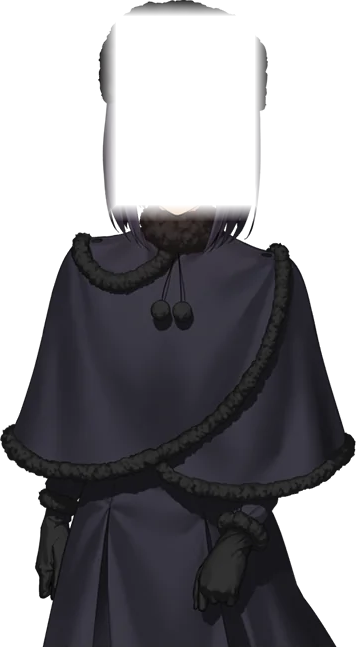
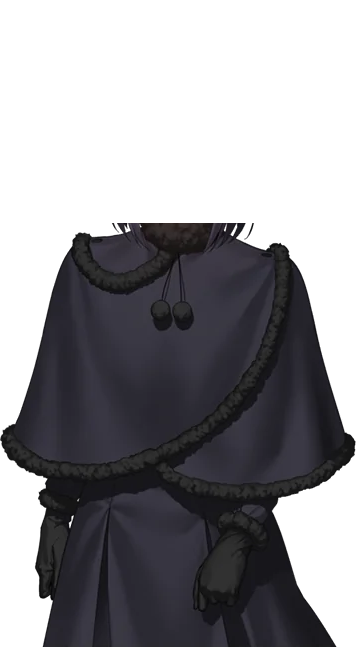
fix: 彻底清除歪头旧位置残影

Changed region(s): [[0.2781, 0.0309, 0.7725, 0.3709], [0.3708, 0.0, 0.6489, 0.0309]]

diff --git a/src/main.js b/src/main.js
@@ -451,6 +451,25 @@ function createWindow() {
             const petHeadRig = document.querySelector('.gaia-pet-head-rig');
             const blinkFace = document.querySelector('.gaia-pet-blink-face');
             const layeredPet = !!petBodyLayer && petBodyLayer.src.endsWith('/parts/body.png') && !!petHeadLayer && petHeadLayer.src.endsWith('/parts/head.png') && !!petHeadRig && petHeadRig.offsetHeight > 0;
+            if (petBodyLayer && (!petBodyLayer.complete || !petBodyLayer.naturalWidth)) {
+              await new Promise((resolve) => {
+                petBodyLayer.addEventListener('load', resolve, { once: true });
+                petBodyLayer.addEventListener('error', resolve, { once: true });
+              });
+            }
+            let headCutoutClean = false;
+            if (petBodyLayer && petBodyLayer.naturalWidth) {
+              const cutoutCanvas = document.createElement('canvas');
+              cutoutCanvas.width = petBodyLayer.naturalWidth;
+              cutoutCanvas.height = petBodyLayer.naturalHeight;
+              const cutoutContext = cutoutCanvas.getContext('2d', { willReadFrequently: true });
+              cutoutContext.drawImage(petBodyLayer, 0, 0);
+              const cutoutPixels = cutoutContext.getImageData(88, 0, 180, 223).data;
+              headCutoutClean = true;
+              for (let i = 3; i < cutoutPixels.length; i += 4) {
+                if (cutoutPixels[i] !== 0) { headCutoutClean = false; break; }
+              }
+            }
             const oldLidRemoved = !document.querySelector('.gaia-pet-lid');
             GaiaPet.runEmotion('sleeping');
             await new Promise((resolve) => setTimeout(resolve, 80));
@@ -484,7 +503,7 @@ function createWindow() {
             GaiaPet.runAction('blink');
             const spriteBlinkStarted = !!blinkFace && blinkFace.classList.contains('blink');
             GaiaPet.closeConsole();
-            return { panelVisible, panelInViewport, emotionButtons, actionButtons, layeredPet, oldLidRemoved, sleeping, sleepExpression, sleepAnimation, sleepHeadPose, zzzVisible, firstClickOnlyWakes, awake, wakePerformance, sleepAnimationCleared, zzzHidden, actionStarted, actionCleared, breathingRestored, angryPerformanceStarted, angryExpressionMatched, angryPerformanceCleared, spriteBlinkStarted };
+            return { panelVisible, panelInViewport, emotionButtons, actionButtons, layeredPet, headCutoutClean, oldLidRemoved, sleeping, sleepExpression, sleepAnimation, sleepHeadPose, zzzVisible, firstClickOnlyWakes, awake, wakePerformance, sleepAnimationCleared, zzzHidden, actionStarted, actionCleared, breathingRestored, angryPerformanceStarted, angryExpressionMatched, angryPerformanceCleared, spriteBlinkStarted };
           })()`);
           debugOk =
             petStatus.panelVisible === true &&
@@ -492,6 +511,7 @@ function createWindow() {
             petStatus.emotionButtons === 8 &&
             petStatus.actionButtons === 6 &&
             petStatus.layeredPet === true &&
+            petStatus.headCutoutClean === true &&
             petStatus.oldLidRemoved === true &&
             petStatus.sleeping === true &&
             petStatus.sleepExpression === '安心' &&
@@ -542,6 +562,14 @@ function createWindow() {
         await mainWindow.webContents.executeJavaScript('window.__gaiaDebug.waitHome()');
         await wait(1700);
         await capture('home.png');
+        await mainWindow.webContents.executeJavaScript("GaiaPet.runAction('tilt')");
+        await wait(260);
+        await capture('pet_tilt_early.png');
+        await wait(260);
+        await capture('pet_tilt_peak.png');
+        await wait(390);
+        await capture('pet_tilt_return.png');
+        await wait(270);
         await mainWindow.webContents.executeJavaScript("__gaiaDebug.showView('library')");
         await wait(900);
         await capture('bookshelf.png');

diff --git a/tests/pet.test.js b/tests/pet.test.js
@@ -162,6 +162,7 @@ test('渲染层包含分层专用动画、无黑线眨眼和动作收尾', () =>
   const renderer = fs.readFileSync(path.join(__dirname, '..', 'src', 'renderer', 'pet.js'), 'utf8');
   const css = fs.readFileSync(path.join(__dirname, '..', 'src', 'renderer', 'styles.css'), 'utf8');
   const app = fs.readFileSync(path.join(__dirname, '..', 'src', 'renderer', 'app.js'), 'utf8');
+  const main = fs.readFileSync(path.join(__dirname, '..', 'src', 'main.js'), 'utf8');
   assert.ok(renderer.includes("addEventListener('contextmenu', openConsole)"), '桌宠应支持右键打开控制台');
   assert.ok(renderer.includes('whenReady:'), '桌宠初始化应提供可等待的就绪状态');
   assert.ok(renderer.includes("key === 'sleeping'"), '控制台应能手动睡觉');
@@ -197,10 +198,13 @@ test('渲染层包含分层专用动画、无黑线眨眼和动作收尾', () =>
   assert.ok(css.includes('@keyframes pet-head-wake'), '缺少分层唤醒动画');
   assert.ok(!css.includes('.gaia-pet-lid'), '矩形眼皮样式应彻底移除');
   assert.ok(app.includes('window.GaiaPet.init().then(updatePetUI)'), '桌宠初始化后应同步设置开关文字');
+  assert.ok(main.includes('petStatus.headCutoutClean === true'), '冒烟测试应逐像素验证身体层没有旧头部残影');
 });
 
-test('头身分层羽化由外向内减淡，避免歪头后留下旧位置残影', () => {
+test('头身分层完整挖空头部活动区，仅在颈部保留窄幅重叠', () => {
   const script = fs.readFileSync(path.join(__dirname, '..', 'scripts', 'make-pet-head-parts.py'), 'utf8');
-  assert.ok(script.includes('int(a[y, x, 3]) * (pad - d) / (pad + 1)'), '身体挖空羽化方向错误或存在 uint8 乘法溢出');
-  assert.ok(!script.includes('(d + 1) / (pad + 1)'), '不应保留由内向外增强的不透明残影环');
+  assert.ok(script.includes('HEAD = (88, 0, 268, 235)'), '头部裁切应完整覆盖帽子、头发和颈部');
+  assert.ok(script.includes('BOTTOM_OVERLAP = 12'), '颈部只应保留窄幅接缝重叠');
+  assert.ok(script.includes('a[y0:min(y1 - BOTTOM_OVERLAP, H), x0:min(x1, W), 3] = 0'), '身体层的头部活动区域必须完全透明');
+  assert.ok(!script.includes('d = min('), '不应在旧头部四周保留残影羽化环');
 });

diff --git a/tests/app-smoke.test.js b/tests/app-smoke.test.js
@@ -10,11 +10,15 @@ const root = path.join(__dirname, '..');
 test('项目关键文件齐全', () => {
   const pkg = JSON.parse(fs.readFileSync(path.join(root, 'package.json'), 'utf8'));
   assert.ok(fs.existsSync(path.join(root, pkg.main)), '主进程入口缺失');
+  const main = fs.readFileSync(path.join(root, pkg.main), 'utf8');
   assert.ok(pkg.scripts.start, '缺少 start 脚本');
   assert.ok(pkg.scripts.test, '缺少 test 脚本');
   assert.ok(pkg.scripts.smoke, '缺少 smoke 脚本');
   assert.ok(pkg.scripts['smoke:open'], '缺少 smoke:open 脚本');
   assert.ok(pkg.scripts.shot, '缺少 shot 截图脚本');
+  for (const frame of ['pet_tilt_early.png', 'pet_tilt_peak.png', 'pet_tilt_return.png']) {
+    assert.ok(main.includes(`capture('${frame}')`), `截图验收缺少歪头动作帧 ${frame}`);
+  }
   for (const f of [
     'src/preload.js',
     'src/shared/bookmarks.js',

diff --git a/src/renderer/pet.js b/src/renderer/pet.js
@@ -49,7 +49,7 @@
     tile: { w: 134, h: 118, cx: 67.5, cy: 59.5 },
     sheet: { w: 356, h: 647 },
   };
-  const HEAD = { x: 100, y: 0, w: 170, h: 220 };
+  const HEAD = { x: 88, y: 0, w: 180, h: 235 };
   const ACTION_CLASSES = ['poke', 'drop', 'perk', 'recoil', 'shiver', 'stretch', 'lean', 'drowse', 'wake'];
   const PERFORMANCE_CLASSES = ['performance-tilt', 'performance-thinking', 'performance-peek', 'performance-listen', 'performance-shy', 'performance-angry', 'performance-bored', 'performance-drowse', 'performance-wake'];
   const ACTION_MS = { poke: 350, tilt: 1100, drop: 400, perk: 500, recoil: 360, shiver: 420, stretch: 820, lean: 600, drowse: 1100, wake: 900 };

diff --git a/src/renderer/styles.css b/src/renderer/styles.css
@@ -333,7 +333,7 @@ body.eye {
   top: 0;
   width: 100%;
   pointer-events: none;
-  transform-origin: 50% 94%;
+  transform-origin: 50% 96%;
   transition: transform 0.65s ease;
   overflow: visible;
 }

diff --git a/scripts/make-pet-head-parts.py b/scripts/make-pet-head-parts.py
@@ -1,8 +1,8 @@
 #!/usr/bin/env python3
-"""生成桌宠素材(羽化加强版):
-- head.png : 头部 (100,0)-(270,220), 底部羽化 24px, 左右羽化 6px
-- body.png : 挖空头部矩形, 挖空边缘羽化 16px
-头/身体都用 rotateY 3D 转身, 头幅度大, 身体幅度小。
+"""生成桌宠头身分层素材。
+
+头部裁切覆盖帽子、头发与颈部；身体层只在颈部旋转轴附近保留窄幅重叠，
+其余头部活动区域完全透明，避免歪头时露出原位置的旧头部像素。
 """
 
 import os
@@ -11,36 +11,26 @@ from PIL import Image
 
 SRC = r"D:\Codex_project\Gaia_Reading\src\renderer\images\pet\cells\半身照.png"
 OUT = r"D:\Codex_project\Gaia_Reading\src\renderer\images\pet\parts"
-HEAD = (100, 0, 270, 220)
+HEAD = (88, 0, 268, 235)
+BOTTOM_OVERLAP = 12
 
 im = Image.open(SRC).convert('RGBA')
 W, H = im.size
 os.makedirs(OUT, exist_ok=True)
 
-# 1) 头层: 底部 24px 羽化, 左右 6px 羽化
+# 1) 头层：底部只在颈部旋转轴附近羽化，裁切左右已包含透明留白。
 head = im.crop(HEAD).convert('RGBA')
 a = np.array(head)
 hh = a.shape[0]
-for y in range(hh - 24, hh):
-    t = (y - (hh - 24)) / 24.0
-    a[y, :, 3] = (a[y, :, 3] * (1 - t)).astype(np.uint8)
-for x in range(0, 6):
-    t = (x + 1) / 6.0
-    a[:, x, 3] = (a[:, x, 3] * t).astype(np.uint8)
-    a[:, -(x + 1), 3] = (a[:, -(x + 1), 3] * t).astype(np.uint8)
+for y in range(hh - BOTTOM_OVERLAP, hh):
+    t = (y - (hh - BOTTOM_OVERLAP)) / BOTTOM_OVERLAP
+    a[y, :, 3] = (a[y, :, 3].astype(np.float32) * (1 - t)).astype(np.uint8)
 Image.fromarray(a).save(os.path.join(OUT, 'head.png'))
 
-# 2) 身体: 挖空头部矩形。边缘由外向内从不透明降至透明，避免留下旧头部残影。
+# 2) 身体层：活动区彻底透明；仅保留最底部 12px 作为颈部接缝衬底。
 body = im.copy()
 a = np.array(body)
 x0, y0, x1, y1 = HEAD
-pad = 16
-for y in range(y0, min(y1 + 1, H)):
-    for x in range(x0, min(x1 + 1, W)):
-        d = min(x - x0, x1 - x, y - y0, y1 - y)
-        if d >= pad:
-            a[y, x, 3] = 0
-        elif d >= 0:
-            a[y, x, 3] = np.uint8(int(a[y, x, 3]) * (pad - d) / (pad + 1))
+a[y0:min(y1 - BOTTOM_OVERLAP, H), x0:min(x1, W), 3] = 0
 Image.fromarray(a).save(os.path.join(OUT, 'body.png'))
-print('head/body regenerated with wider feather')
+print('head/body regenerated with clean head cutout')
